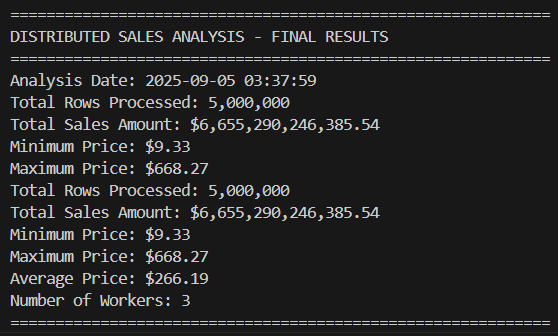
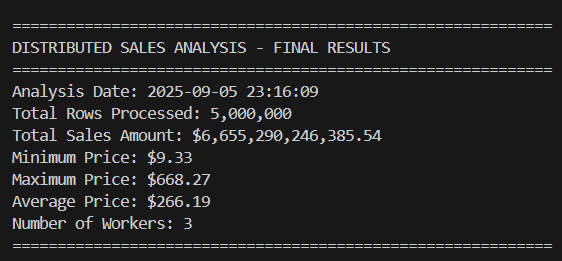
Corrected an error in the output picture

Changed region(s): [[0.0, 0.092, 1.0, 0.9808], [0.0, 0.0307, 1.0, 0.0613]]

diff --git a/test.py b/test.py
@@ -1,0 +1,19 @@
+import pandas as pd
+
+data = pd.read_csv('sample_sales_data.csv')
+print(data.columns)
+
+
+sum_total = data['Unit Price']*data['Units Sold']
+sum_total = sum_total.tolist()
+sum_total = sum(sum_total)
+print(sum_total)
+
+no_of_items = data['Units Sold']
+no_of_items = no_of_items.tolist()
+no_of_items = sum(no_of_items)
+
+avg = sum_total/no_of_items
+print(avg)
+
+
